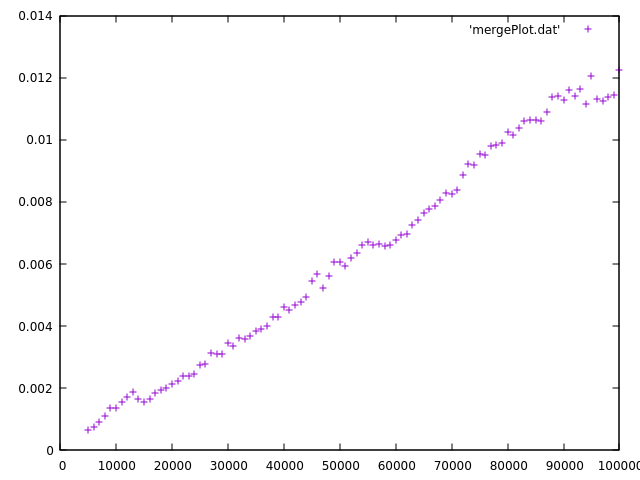
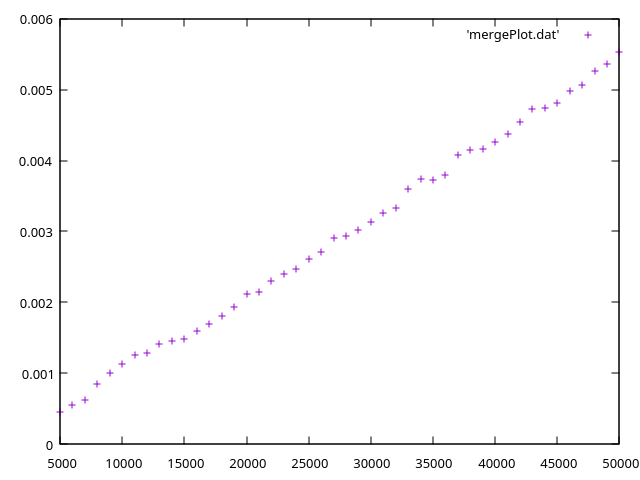
Changed the loop limit in case 1, output files changed accordingly

diff --git a/Lab 11/main.c b/Lab 11/main.c
@@ -70,7 +70,7 @@ int main() {
                     exit(EXIT_FAILURE);
                 }
 
-                for (int size = 5000; size <= 100000; size += 1000) {
+                for (int size = 5000; size <= 50000; size += 1000) {
                     generateRandomInput(a, size);
                     start = clock();
                     mergeSort(a, 0, size - 1);
